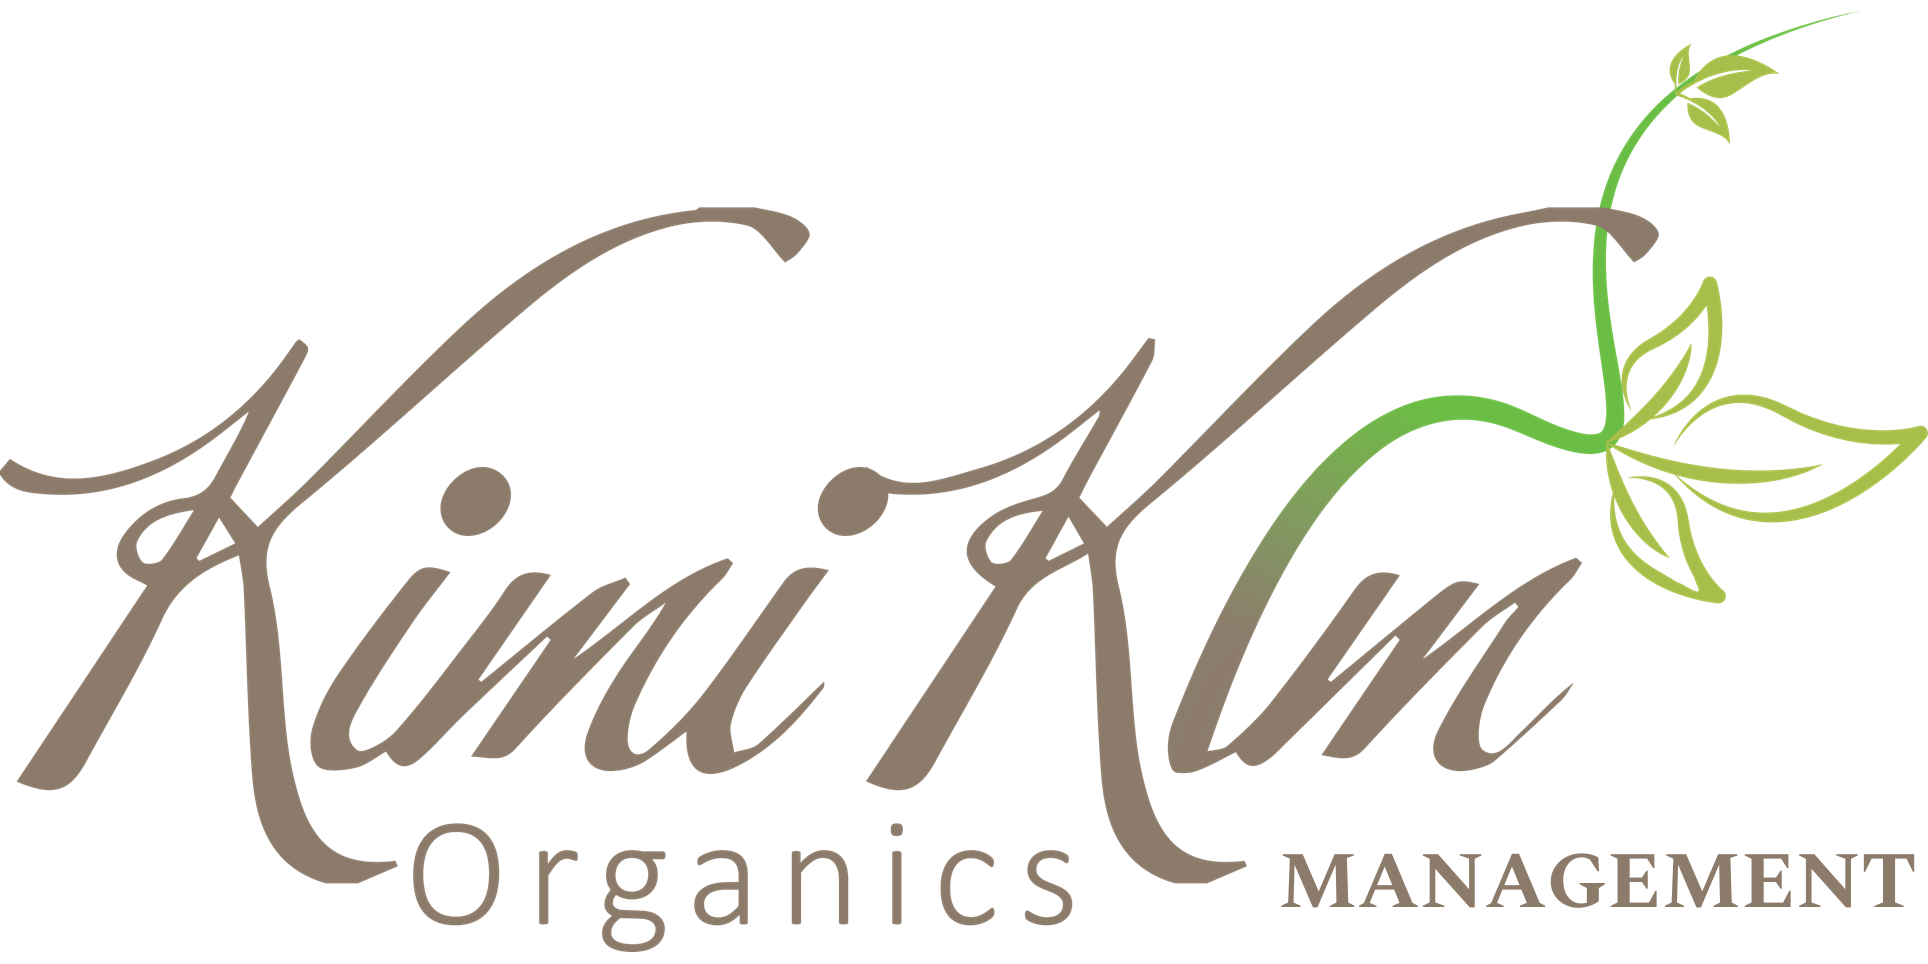
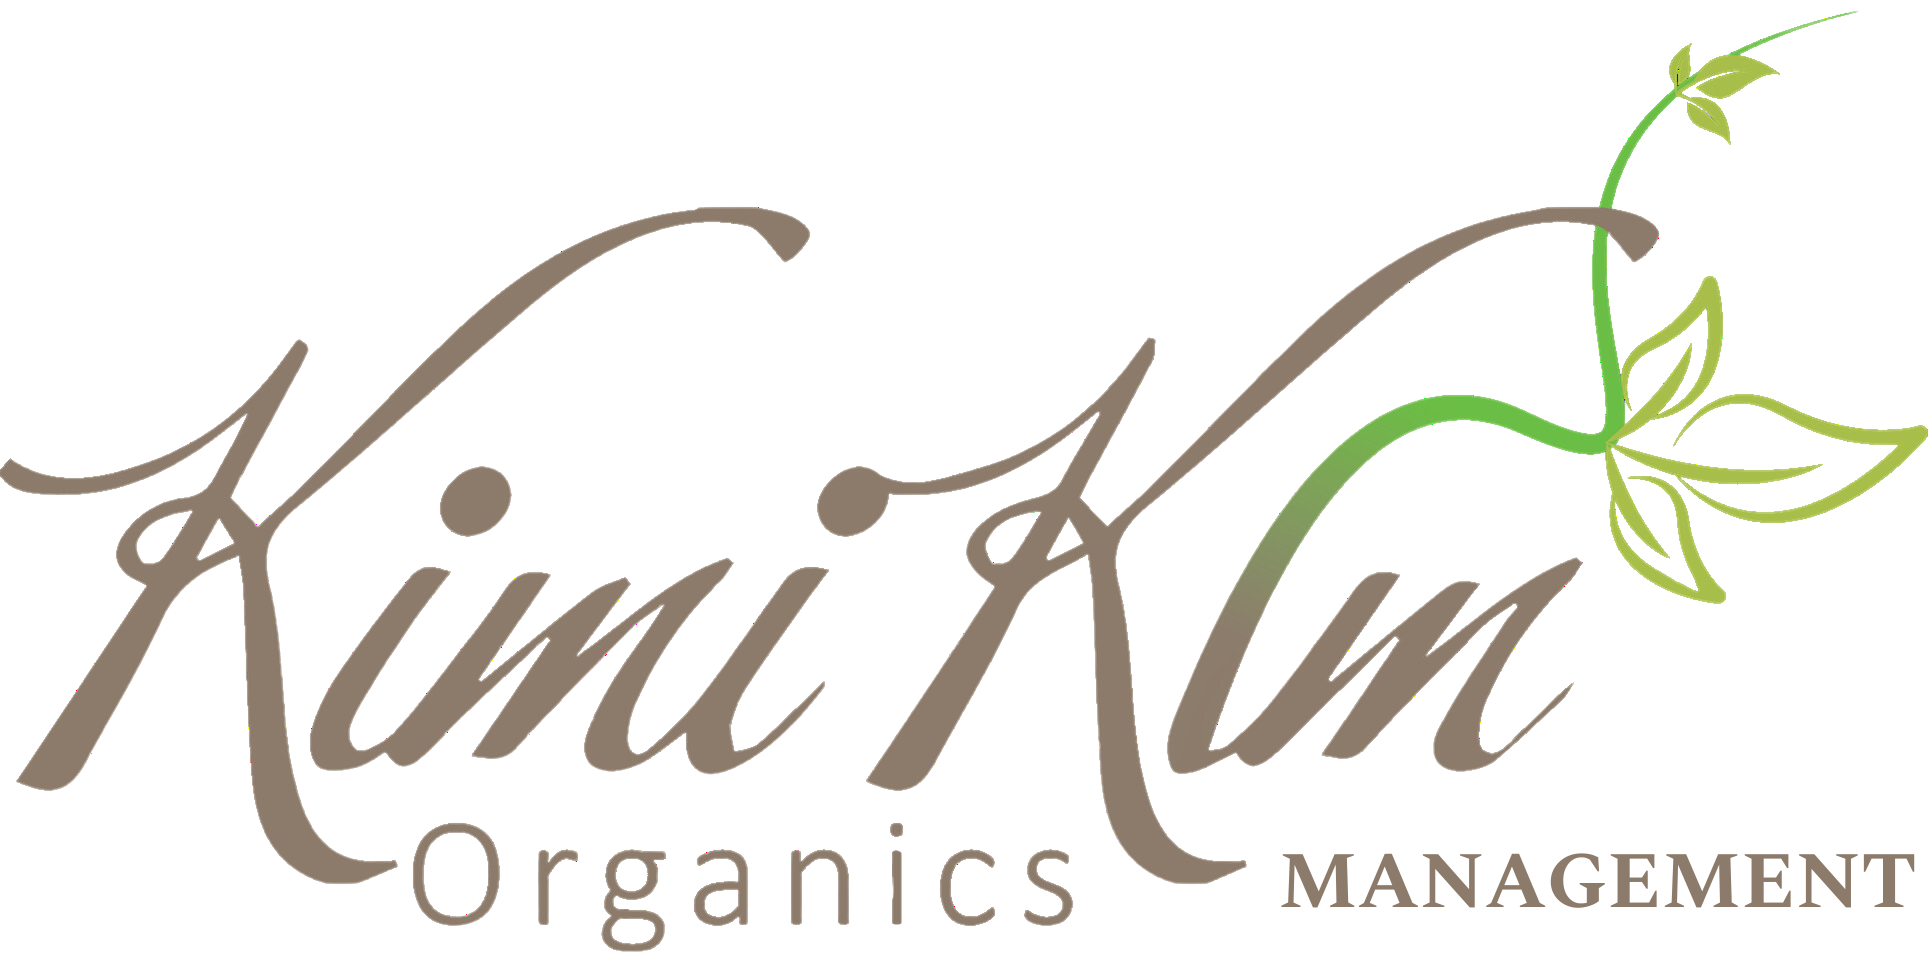
Created transparent.png; Edited frmLogin, MANAGEMENT.png, ServerAPI and AnalyticsReporting

Changed region(s): [[0.8714, 0.0622, 0.9025, 0.1245], [0.9959, 0.4357, 1.0, 0.4668], [0.8402, 0.4046, 0.8714, 0.4357]]

diff --git a/server_code/ServerAPI.py b/server_code/ServerAPI.py
@@ -4,6 +4,8 @@ import anvil.tables.query as q
 from anvil.tables import app_tables
 import anvil.server
 from datetime import datetime, date, timedelta, timezone
+import csv
+import io
 
 
 # GETTERS
@@ -29,6 +31,56 @@ def getIfWorking(ID):
         return False  # The most recent work record has a ClockOut, meaning that the employee is not currently working
     except:
         return False  # The employee has no history of working at all
+
+
+@anvil.server.callable
+def getWorkRecordsForDownloads(time_filter):
+    if time_filter == "All Time":
+        records = app_tables.tblworkrecords.search()
+    else:
+        start_date = get_start_date(time_filter)
+        records = app_tables.tblworkrecords.search(ClockIn=q.greater_than_or_equal_to(start_date))
+
+    record_data = []
+    for record in records:
+        record_data.append({
+            'WorkID': record['WorkID'],
+            'UserID': record['UserID'],
+            'HoursWorked': record['HoursWorked'],
+            'PayRate': record['PayRate'],
+            'ClockIn': record['ClockIn'].strftime('%Y-%m-%d %H:%M:%S') if record['ClockIn'] else '',
+            'ClockOut': record['ClockOut'].strftime('%Y-%m-%d %H:%M:%S') if record['ClockOut'] else '',
+            'Payout': record['Payout'],
+            'Approval': record['Approval'],
+            'Date': record['Date'].strftime('%Y-%m-%d') if record['Date'] else '',
+            'Paid': record['Paid']
+        })
+    csv_data = convert_to_csv(record_data)
+    return csv_data
+
+@anvil.server.callable
+def getUserDetailsForDownload(include_all):
+    users = app_tables.tbluserdetails.search() if include_all else app_tables.tbluserdetails.search(UserID=q.none_of([]))
+    user_data = []
+    for user in users:
+        user_data.append({
+            'UserID': user['UserID'],
+            'FullName': user['FullName'],
+            'Email': user['Email'],
+            'PhoneNumber': user['PhoneNumber'],
+            'DoB': str(user['DoB'].strftime('%Y-%m-%d')) if user['DoB'] else '',
+            'Gender': user['Gender'],
+            'Employment': user['Employment'],
+            'Group': user['Group'],
+            'Title': user['Title'],
+            'BasicRate': user['BasicRate'],
+            'ExtendedRate': user['ExtendedRate'],
+            'PublHolRate': user['PublHolRate'],
+            'TFN': user['TFN']
+        })
+    csv_data = convert_to_csv(user_data)
+    return csv_data
+
 
 
 @anvil.server.callable
@@ -108,22 +160,6 @@ def changeSettings(userID, checkedStatus):
   userSettings.update(DarkMode=checkedStatus)
   
 
-def createID():
-  try:
-    lastID = app_tables.users.search(tables.order_by("UserID", ascending=False))[0]['UserID']
-    newID = int(lastID) + 1
-    return newID
-  except:
-    return 0 # there aren't any prior users, meaning that a new user would have the ID of 0.
-
-def newWorkId(ID):
-  try:
-    lastID = app_tables.tblworkrecords.search(tables.order_by("WorkID", ascending=False))[0]['WorkID']
-    newID = int(lastID) + 1
-    return newID
-  except:
-    return 0 # there wasn't any prior work, meaning that the users
-
 @anvil.server.callable
 def setClock(ID):
     user = app_tables.tbluserdetails.get(UserID=ID)
@@ -193,7 +229,8 @@ def updateApprovalStatus(workIDs, status):
     if status:
       row.update(Approval=True)
     else:
-      row.delete()
+      if not row['Approval'] and not row['Paid']:
+        row.delete()
 
 @anvil.server.callable
 def updatePaymentStatus(workIDs):
@@ -201,3 +238,43 @@ def updatePaymentStatus(workIDs):
     row = app_tables.tblworkrecords.get(WorkID=workID)
     if row:
       row.update(Paid=True)
+
+# OTHER FUNCTIONS:
+
+def createID():
+  try:
+    lastID = app_tables.users.search(tables.order_by("UserID", ascending=False))[0]['UserID']
+    newID = int(lastID) + 1
+    return newID
+  except:
+    return 0 # there aren't any prior users, meaning that a new user would have the ID of 0.
+
+def newWorkId(ID):
+  try:
+    lastID = app_tables.tblworkrecords.search(tables.order_by("WorkID", ascending=False))[0]['WorkID']
+    newID = int(lastID) + 1
+    return newID
+  except:
+    return 0 # there wasn't any prior work, meaning that the users
+
+def get_start_date(time_filter):
+    if time_filter == "Today":
+        return datetime.now().replace(hour=0, minute=0, second=0, microsecond=0)
+    elif time_filter == "Yesterday":
+        return datetime.now().replace(hour=0, minute=0, second=0, microsecond=0) - timedelta(days=1)
+    elif time_filter == "Last 7 days":
+        return datetime.now().replace(hour=0, minute=0, second=0, microsecond=0) - timedelta(days=7)
+    elif time_filter == "Last Fortnight":
+        return datetime.now().replace(hour=0, minute=0, second=0, microsecond=0) - timedelta(days=14)
+    elif time_filter == "Last Month":
+        return (datetime.now().replace(day=1) - timedelta(days=1)).replace(day=1)
+    else:
+        return datetime.min
+
+def convert_to_csv(data):
+    output = io.StringIO()
+    writer = csv.DictWriter(output, fieldnames=data[0].keys())
+    writer.writeheader()
+    writer.writerows(data)
+    return output.getvalue()
+

diff --git a/client_code/AnalyticsReporting/__init__.py b/client_code/AnalyticsReporting/__init__.py
@@ -189,3 +189,39 @@ class AnalyticsReporting(AnalyticsReportingTemplate):
     values = list(date_dict.values())
 
     return go.Bar(x=dates, y=values)
+
+  def downloadUserDetails(self, **event_args):
+    filter_option = confirm("Do you want to download all data or filtered data based on the selected time period?", buttons=["All", "Filtered", "Cancel"])
+    if filter_option == "All":
+        csv_data = anvil.server.call('getUserDetailsForDownload', True)
+    elif filter_option == "Filtered":
+        csv_data = anvil.server.call('getUserDetailsForDownload', False)
+    else:
+        return  # Cancel was selected, do nothing
+
+    # Encode the CSV data to bytes
+    csv_bytes = csv_data.encode('utf-8')
+
+    # Create a file and download it
+    media = anvil.BlobMedia('text/csv', csv_bytes, name='user_details.csv')
+    download(media)
+
+
+
+def downloadWorkRecords(self, **event_args):
+    filter_option = confirm("Do you want to download all data or filtered data based on the selected time period?", buttons=["All", "Filtered", "Cancel"])
+    if filter_option == "All":
+        csv_data = anvil.server.call('getWorkRecordsForDownloads', "All Time")
+    elif filter_option == "Filtered":
+        time_choice = self.ddDates.selected_value
+        csv_data = anvil.server.call('getWorkRecordsForDownloads', time_choice)
+    else:
+        return  # Cancel was selected, do nothing
+
+    # Encode the CSV data to bytes
+    csv_bytes = csv_data.encode('utf-8')
+
+    # Create a file and download it
+    media = anvil.BlobMedia('text/csv', csv_bytes, name='work_records.csv')
+    download(media)
+
